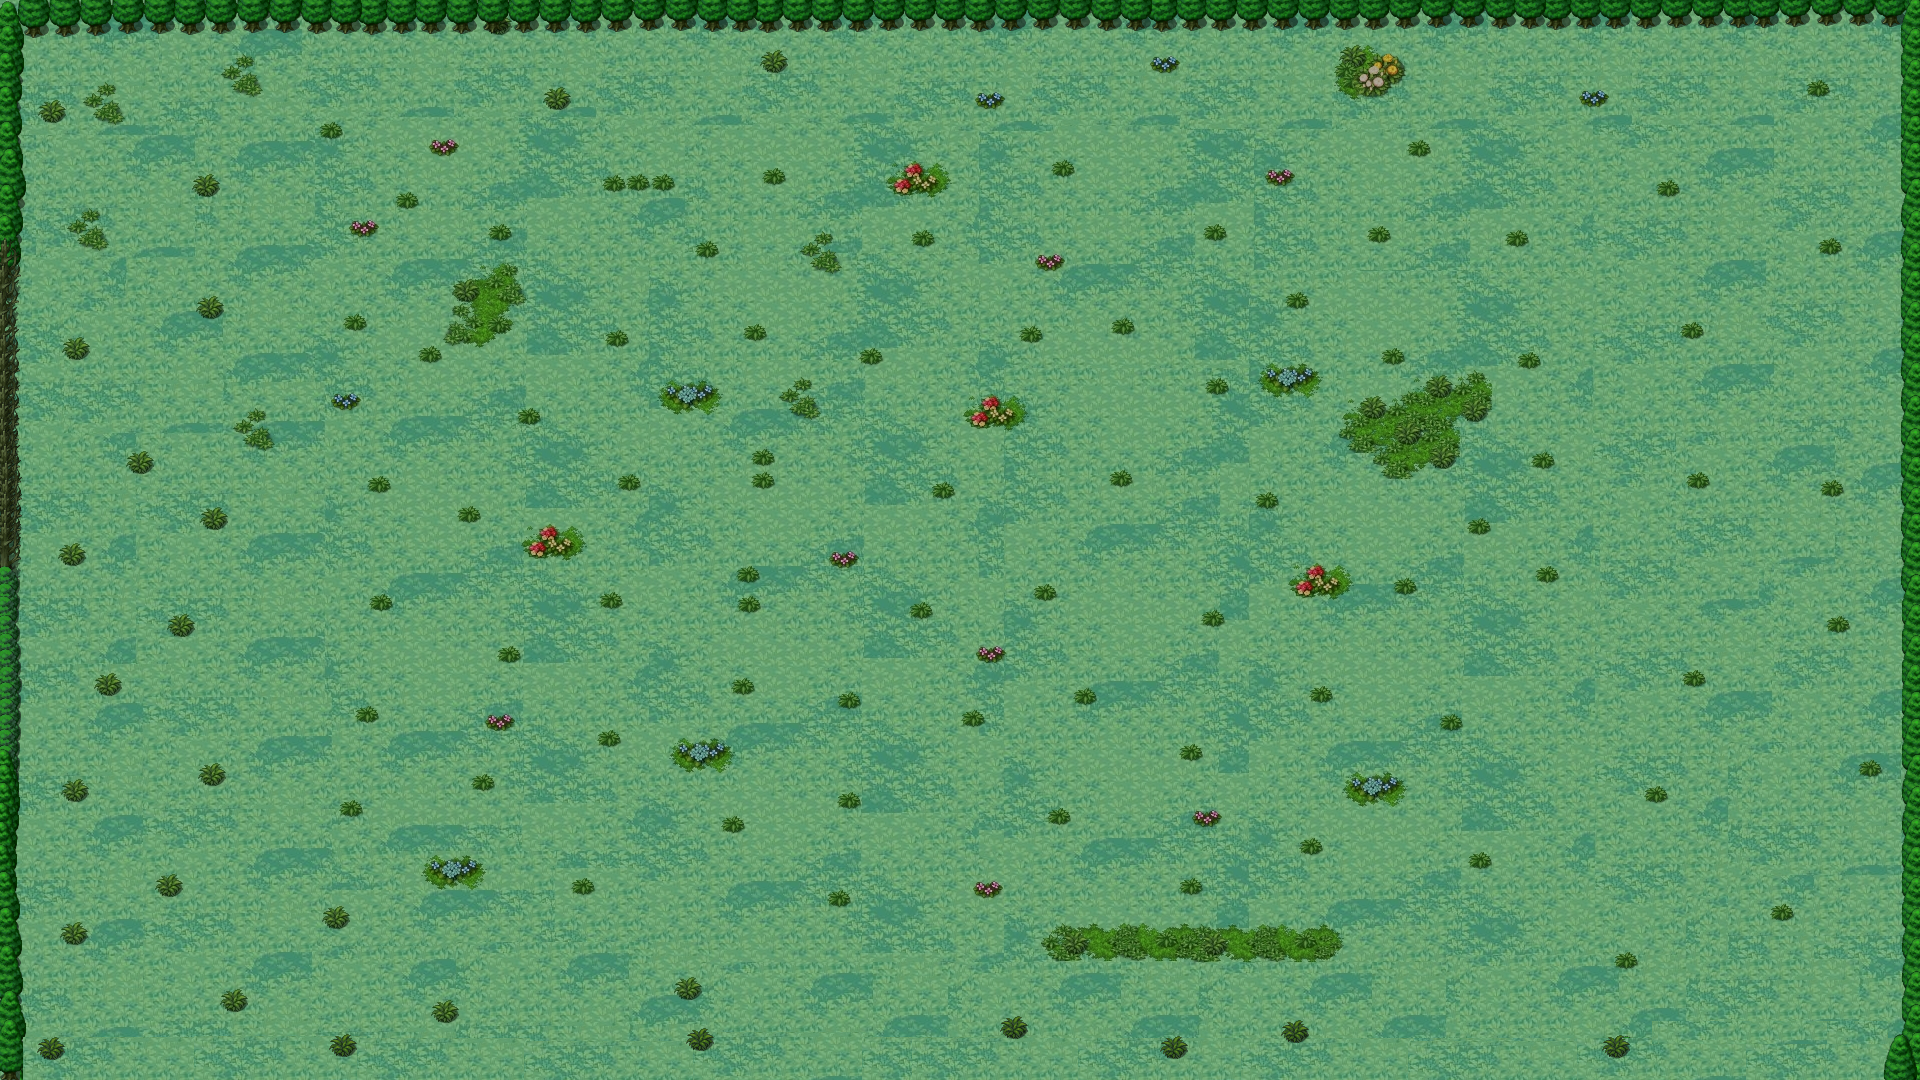
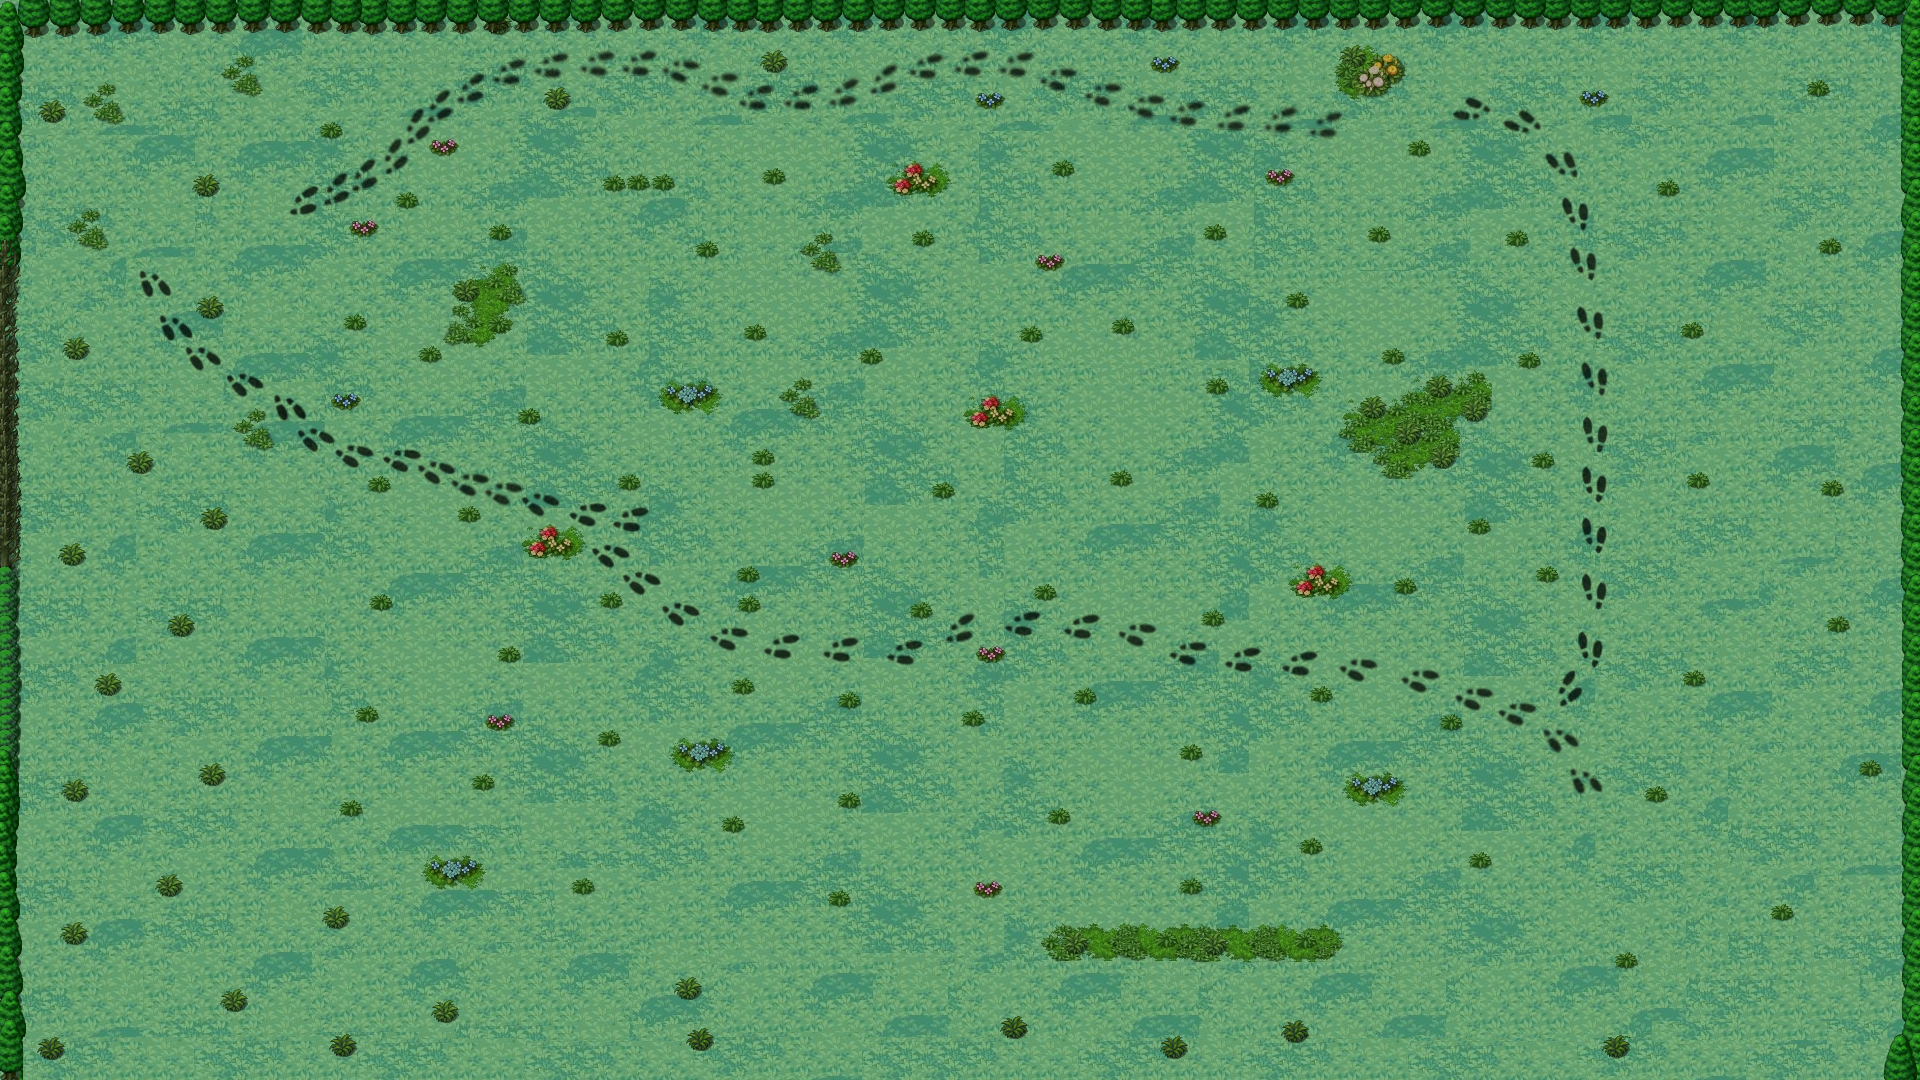
add foot path for easy navigation, added idle dialogs

diff --git a/scripts/common.js b/scripts/common.js
@@ -63,7 +63,12 @@ const WORK_EXP = [
       <span class="pill">Zustand</span>
     </div>
     `,
-    right: `<p><b>Frontend:</b> <br /> Developed and maintained pages and components. Investigated bugs found in production. 
+    right: `<p> A fully unified platform for behavioral health software. Combining CRM 
+    (customer relationship management), EMR (electronic medical records), 
+    RCM (revenue cycle management) and NavixAI (artifcial intellgents) 
+    services into one seamless platform </p>
+    
+    <p><b>Frontend:</b> <br /> Developed and maintained pages and components. Investigated bugs found in production. 
     Refactored and applied coding principles to the existing old components. </p>
     <a href="https://navixhealth.com/" target="_blank"><i class="fa-solid fa-link"></i> Navix Health</a>`,
   },
@@ -82,10 +87,15 @@ const WORK_EXP = [
       <span class="pill">MySQL</span>
     </div>
     `,
-    right: `<p><b>Frontend: </b> <br /> Added features to the legacy Administrator Panel.
+    right: `
+    <p> Mobile app where customers can order products and get them delivered to their house </p>
+    <p><b>Frontend: </b> <br /> Added features to the legacy Administrator Panel.
     <br /><br /> <b>Backend:</b> <br />
     Converted the backend made in Node.js Express
-    to Laravel. Created APIs for the mobile app</p>`,
+    to Laravel. Created APIs for the mobile app. I developed the proximity map logic</p>
+    
+    <a href="https://play.google.com/store/apps/details?id=ph.phoenixfuels.limitless&hl=en&pli=1" target="_blank">
+    <i class="fa-solid fa-link"></i> Limitless App </a>`,
   },
   {
     left: `
@@ -103,12 +113,15 @@ const WORK_EXP = [
       <span class="pill">MySQL</span>
     </div>
     `,
-    right: `<p><b>Frontend: </b> <br />Developed and maintained the Administrator Panel for Assetmart. 
+    right: `
+     <p> Look for a property, schedule a property viewing, and chat with the Assetmart advisers </p>
+    <p><b>Frontend: </b> <br />Developed and maintained the Administrator Panel for Assetmart. 
    <br /><br /> <b>Backend:</b> <br /> Created the APIs and backend business logic for the Administrator Panel with Node.js + AdonisJS.</p>
     <a href="https://assetmart.global/" target="_blank"><i class="fa-solid fa-link"></i> Assetmart</a>`,
   },
   {
     left: `
+     
     <h3> Automart PH (Oct 2021 - Dec 2022) </h3>
     <img src="assets/img/automart.png" alt="Automart" loading="lazy" />
     <div>
@@ -122,7 +135,9 @@ const WORK_EXP = [
       <span class="pill">MySQL</span>
     </div>
     `,
-    right: `<p><b>Frontend: </b> <br />Added features and functionalities to the Administrator Panel frontend. 
+    right: `
+    <p> Bid or buy a repossessed car and speak with your adviser </p>
+    <p><b>Frontend: </b> <br />Added features and functionalities to the Administrator Panel frontend. 
     <br /><br /> <b>Backend:</b> <br />
     Modified and 
     consolidated the designated APIs.</p>
@@ -141,7 +156,9 @@ const WORK_EXP = [
       <span class="pill">MySQL</span>
     </div>
     `,
-    right: `<p><b>Frontend: </b> <br />Developed the entire Administrator Panel
+    right: `
+    <p> Tracking NB-IoT parking devices in real time </p>
+    <p><b>Frontend: </b> <br />Developed the entire Administrator Panel
     <br /><br /> <b>Backend:</b> <br />
     Created APIs endpoints, database models and business logic services </p>
     <a href="https://www.smartway-solutions-inc.com" target="_blank"><i class="fa-solid fa-link"></i> Smartway Solutions</a>
@@ -179,9 +196,30 @@ const PERSONAL_EXP = [
     </div>
     `,
     right: `
-    <p>Pixel RPG game about me. I used HTML 5 canvas and animation frame. I wrote almost everything 
-    (I had to google/chatgpt some of them, of course) </p>
+    <p>Pixel RPG game about me. You can find my personal projects, work projects and my resume. 
+    I used HTML 5 canvas and animation frame. No external libraries or frameworks used.</p>
     <div class="flex-0"><a href="https://github.com/mickomagallanes/mickomagallanes.github.io" target="_blank">
+    <i class="fa-brands fa-github"></i></a></div>`,
+  },
+  {
+    left: `
+    <h3> Basketball Stats App (June 21, 2024 - June 23, 2024) </h3>
+    <img src="assets/img/player-app.png" alt="Basketball Stats" loading="lazy" />
+    <div> 
+      <span class="pill">Next.js 14</span>
+      <span class="pill">React</span>
+      <span class="pill">HTML</span>
+      <span class="pill">CSS</span>
+      <span class="pill">Javascript</span>
+      <span class="pill">Tailwind CSS</span>
+      <span class="pill">Synergy Sports API</span>
+    </div>
+    `,
+    right: `
+    <p>An app I created for a job interview examination. I had to create it for a total of 16 hours. 
+    It fetches the stats of a basketball player </p>
+    <a href="https://player-app-micko-magallanes-projects.vercel.app/" target="_blank"><i class="fa-solid fa-link"></i> Basketball Stats App</a>
+    <div class="flex-0 mt-1"><a href="https://github.com/mickomagallanes/player-app" target="_blank">
     <i class="fa-brands fa-github"></i></a></div>`,
   },
   {
@@ -194,7 +232,7 @@ const PERSONAL_EXP = [
       <span class="pill">HTML</span>
       <span class="pill">CSS</span>
       <span class="pill">Javascript</span>
-      <span class="pill">Tailwind</span>
+      <span class="pill">Tailwind CSS</span>
       <span class="pill">CoinGecko API</span>
       <span class="pill">NewsData.io API</span>
     </div>

diff --git a/scripts/player-dialog.js b/scripts/player-dialog.js
@@ -36,8 +36,21 @@ class PlayerDialog extends Dialog {
           "Woah, I made those things?",
         ],
       ],
+      [
+        "idle",
+        [
+          "I don't drink coffee btw",
+          "Did Vercel already fixed the Next.js caching?",
+          "I used to play CSGO and sweep the Asia server",
+          "Why is 6 afraid of 7? Coz 7 8 9! Get it? 7 ate 9? hehe...",
+          "Christ Jesus is King!",
+        ],
+      ],
     ]);
     this.init = false;
+    this.idle = false;
+    this.idleTimer = 0;
+    this.idleTimerMaxFrame = 800;
     this.resume = false;
     this.bookWork = false;
     this.bookPersonal = false;
@@ -47,6 +60,15 @@ class PlayerDialog extends Dialog {
     if (!this.init) {
       this.setDialog(this.randomizedDialog("init"));
       this.init = true;
+    } else if (!this.idle && this.currentDialog === null) {
+      if (this.idleTimer >= this.idleTimerMaxFrame) {
+        this.setDialog(this.randomizedDialog("idle"));
+        this.idle = true;
+      } else {
+        this.idleTimer++;
+      }
+    } else {
+      this.resetDialogs();
     }
 
     this.animateDialog(x, y);
@@ -77,6 +99,8 @@ class PlayerDialog extends Dialog {
   resetDialogs = () => {
     this.bookWork = false;
     this.bookPersonal = false;
+    this.idleTimer = 0;
+    this.idle = false;
   };
 
   randomizedDialog = (key) => {

diff --git a/scripts/shine.js b/scripts/shine.js
@@ -4,7 +4,7 @@ class Shine {
     this.height = height;
     this.radius = width; // Initial radius for the shine effect
     this.shineGrowing = true; // Flag to determine the direction of the shine
-    this.maxRadius = width + width / 2; // Maximum radius for the shine effect
+    this.maxRadius = width + (width / 2); // Maximum radius for the shine effect
     this.minRadius = width / 2; // Minimum radius for the shine effect
     this.speed = 1;
   }

diff --git a/scripts/resume.js b/scripts/resume.js
@@ -1,9 +1,9 @@
 class Resume {
   constructor() {
     this.spawnMinX = 1500;
-    this.spawnMaxX = 1800;
+    this.spawnMaxX = 1700;
     this.spawnMinY = 640;
-    this.spawnMaxY = CANVAS_HEIGHT - BOTTOM_TREES_HEIGHT;
+    this.spawnMaxY = 780;
     this.x = randomizeNumber(this.spawnMinX, this.spawnMaxX);
     this.y = randomizeNumber(this.spawnMinY, this.spawnMaxY);
 
